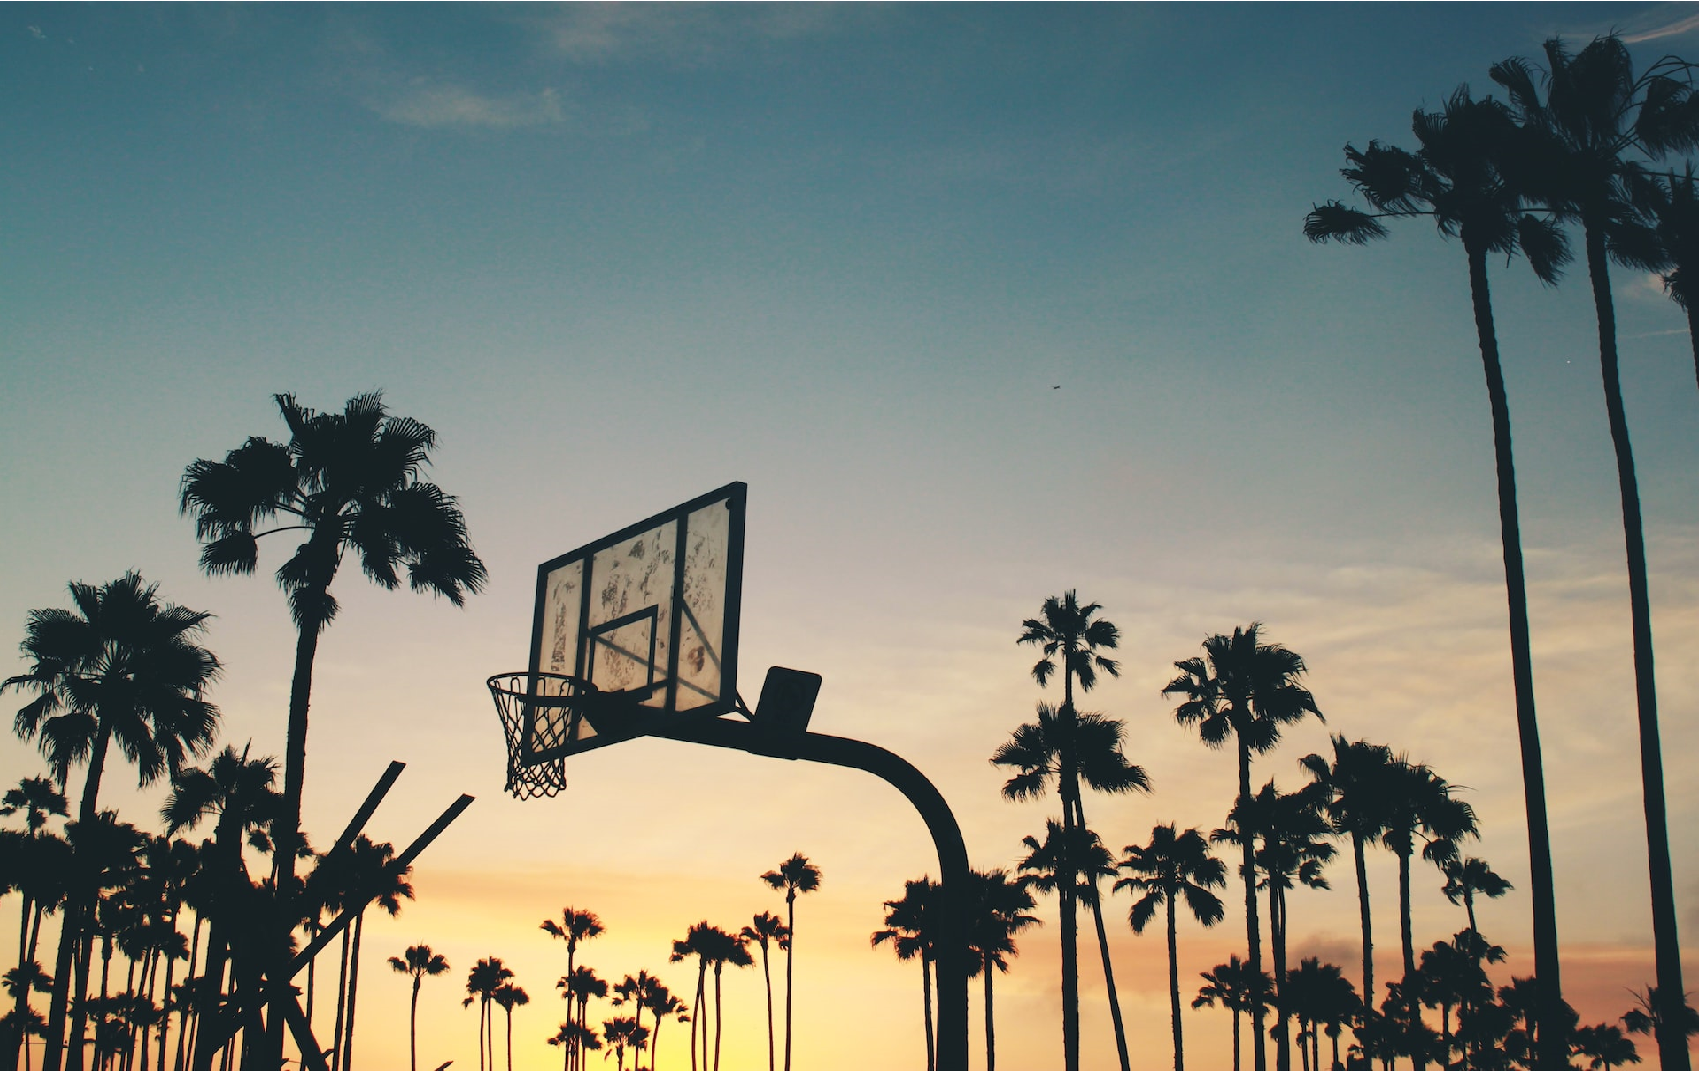
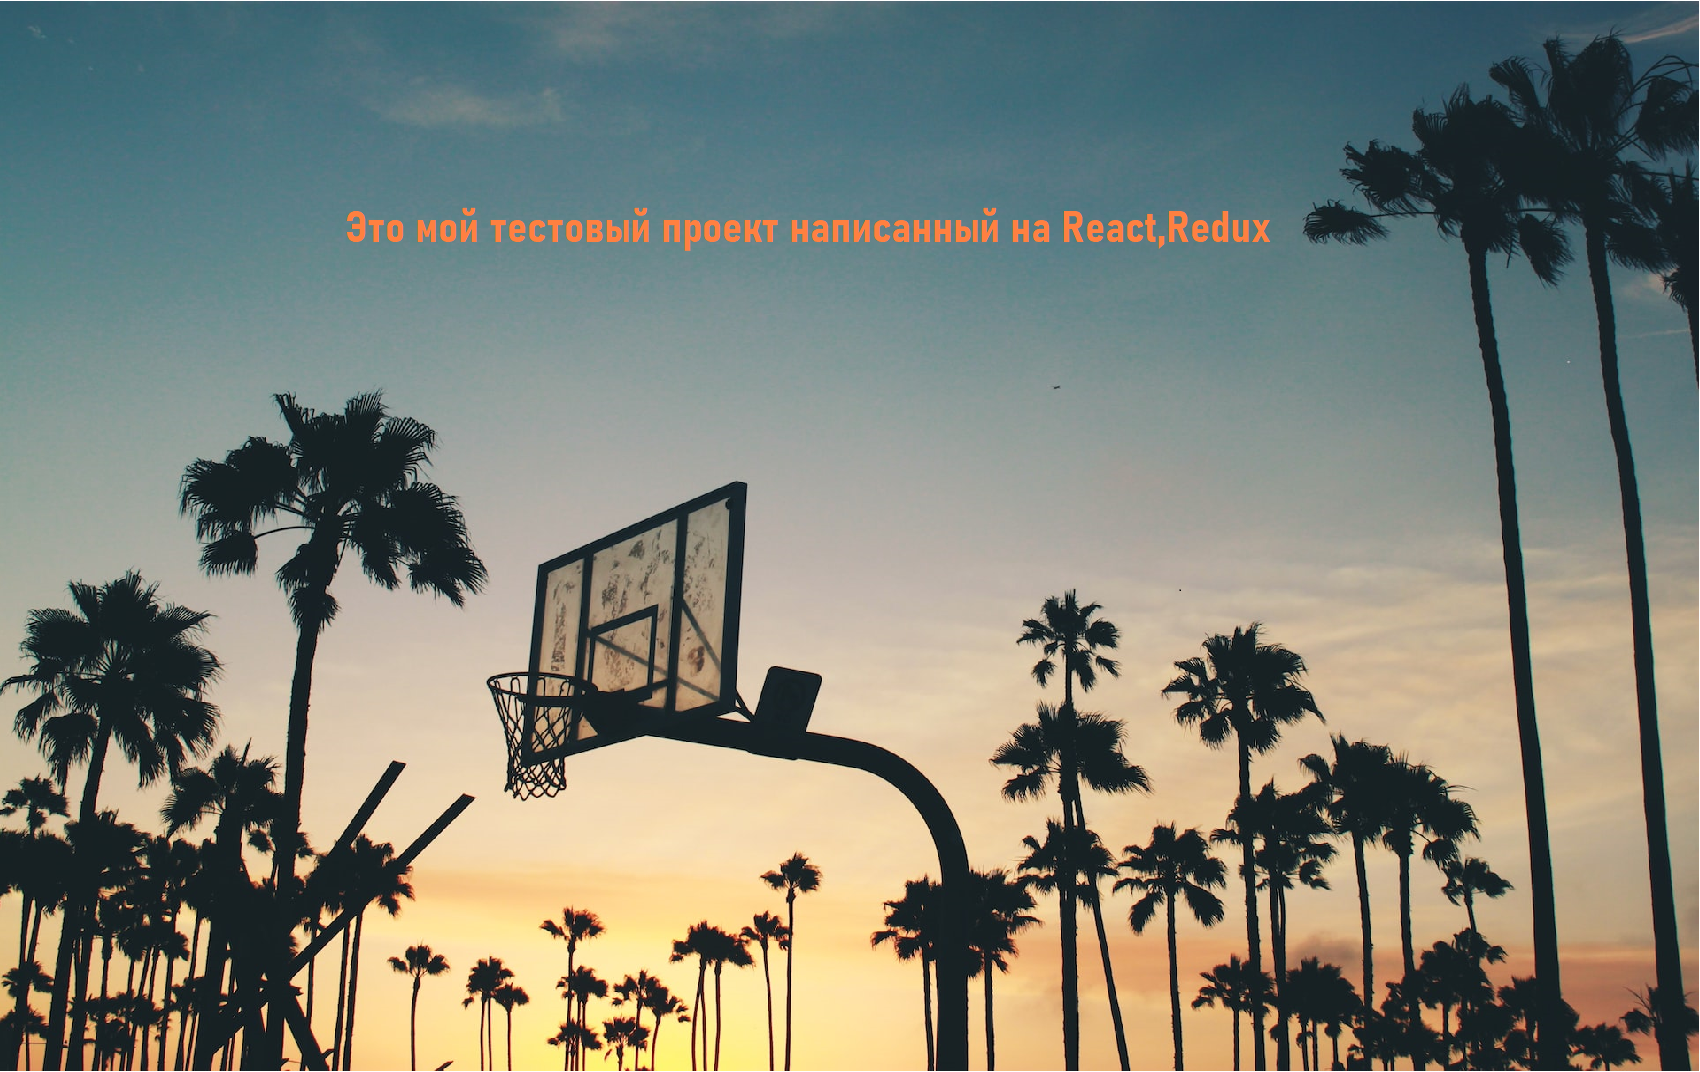
add entrance foto

Changed region(s): [[0.1871, 0.1847, 0.7482, 0.2463]]

diff --git a/src/App.js b/src/App.js
@@ -11,7 +11,7 @@ import Footer from './components/Footer/Footer';
 
 function App() {
   return (
-    <>
+    <div>
       <div className={style.wrapper}>
         <Headers />
         <Routes>
@@ -19,10 +19,9 @@ function App() {
           <Route path="/main" element={<MainWebSite />} />
           <Route path="/basket" element={<Basket />} />
         </Routes>
-
       </div>
-        <Footer/>
-    </>
+      <Footer />
+    </div>
   );
 }
 

diff --git a/src/pages/Home.jsx b/src/pages/Home.jsx
@@ -1,13 +1,13 @@
 import React from 'react'
-
-
+import style from './Home.module.scss'
+import fon from "../assets/img/1.png"
 
 const Home = () => {
  
    return (
-    <>
-      Вступительная
-    </>
+    <div className={style.block}>
+     <img src={fon} atl='fon'/>
+    </div>
    );
 }
 

diff --git a/src/App.module.scss b/src/App.module.scss
@@ -1,6 +1,6 @@
 @import url('https://fonts.googleapis.com/css2?family=Inter:wght@400;600&display=swap');
 
 .wrapper{
-   padding: 20px;
-   
+   margin: 20px;
+  
 }

diff --git a/src/pages/Home.module.scss b/src/pages/Home.module.scss
@@ -1,0 +1,7 @@
+
+.block{
+    padding: 50px;
+    img{
+        border-radius: 20px;
+    }
+}
